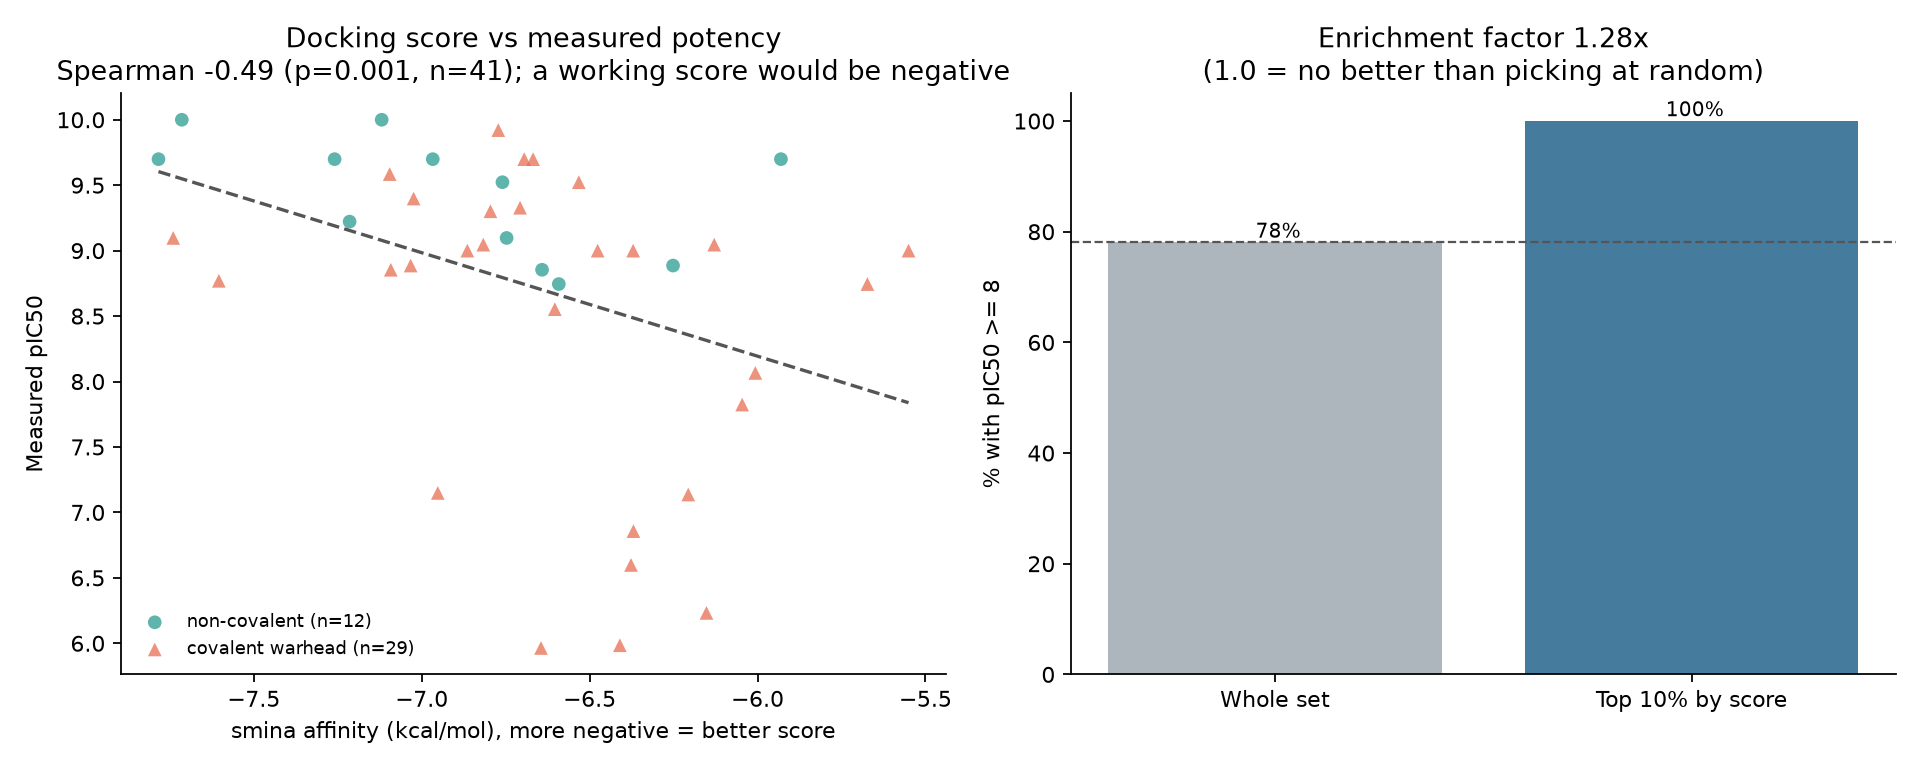
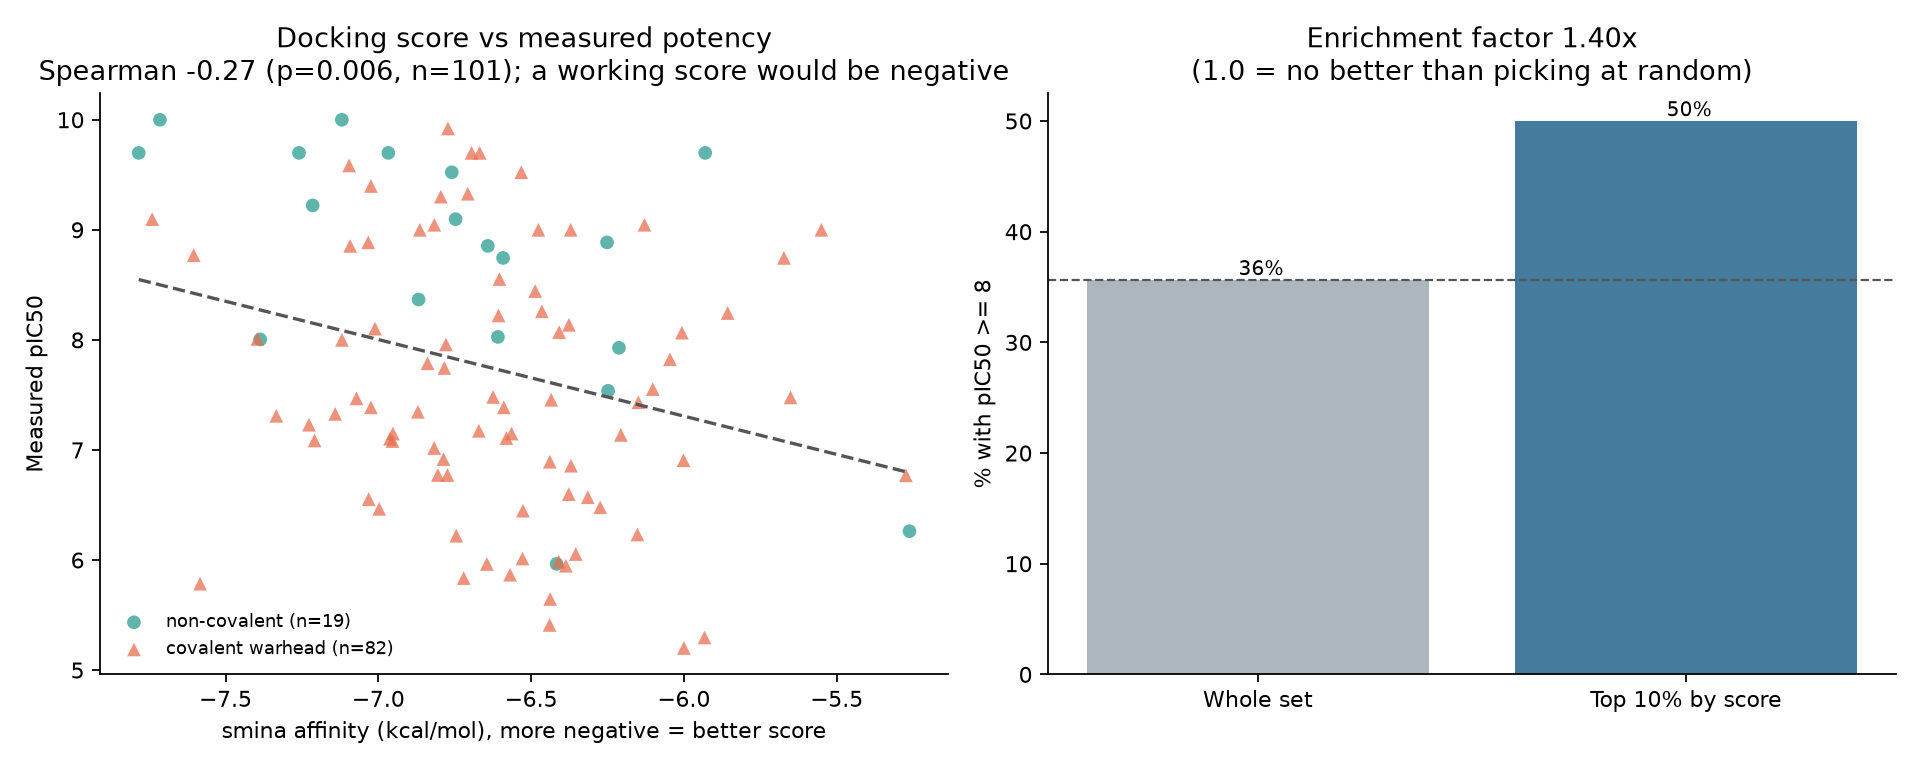
Control for ligand size within each mechanism, not across both
The representative sample reversed the earlier reading. At 41 compounds,
drawn only from the potent end, docking score correlated with potency at
Spearman -0.50 and survived a size control. At 101 compounds spanning the
full range it is -0.27, and the size control kills it: the apparent
relationship largely tracked molecular weight.

Splitting by mechanism explains why, and recovers a real finding. The whole
set averages two populations the scoring function treats differently, since
it has no term for covalent bond formation and 85% of these compounds inhibit
covalently. Controlling for size within each group:

  non-covalent  n=19  partial rho -0.610  p=0.006   survives
  covalent      n=82  partial rho -0.142  p=0.203   does not

Docking carries signal exactly where its physics applies and none where it
does not. The whole-set figure looks null only because the covalent majority
swamps a genuine relationship in the minority.

This matters for the project rather than only for method evaluation: every
shortlist compound that is both non-covalent and CNS-suitable sits in the
subset where the scores mean something, so docking can rank those candidates
against each other even though it cannot rank the dataset as a whole.

Numbers will move as the remaining 79 compounds finish; the document is
generated from the data and says it is partial.

diff --git a/src/report.py b/src/report.py
@@ -320,6 +320,58 @@ def docking_section() -> list[str]:
                     "",
                 ]
 
+        subsets = analysis.get("size_controlled_subsets") or {}
+        non_cov = subsets.get("non_covalent") or {}
+        cov = subsets.get("covalent") or {}
+        if non_cov and cov:
+            lines += [
+                "### Split by mechanism, the picture changes",
+                "",
+                "The whole-set number averages two populations with different "
+                "physics. A",
+                "scoring function has no term for covalent bond formation, so "
+                "for the 85% of",
+                "these compounds that inhibit covalently, potency is governed "
+                "by a reaction rate",
+                "the score cannot see. Controlling for ligand size within "
+                "each group:",
+                "",
+                "| Subset | n | Partial Spearman | p | Survives size control |",
+                "|---|---|---|---|---|",
+                f"| Non-covalent | {non_cov['n']} | "
+                f"{non_cov['partial_rho']:+.3f} | "
+                f"{non_cov['partial_p']:.3g} | "
+                f"{'yes' if non_cov['survives_size_control'] else 'no'} |",
+                f"| Covalent | {cov['n']} | {cov['partial_rho']:+.3f} | "
+                f"{cov['partial_p']:.3g} | "
+                f"{'yes' if cov['survives_size_control'] else 'no'} |",
+                "",
+            ]
+            if non_cov["survives_size_control"] and not cov[
+                "survives_size_control"
+            ]:
+                lines += [
+                    "That is the result worth taking from this screen, and it "
+                    "is more useful",
+                    "than the headline correlation. Docking carries real "
+                    "signal exactly where its",
+                    "physics applies -- non-covalent binding -- and none "
+                    "where it does not. The",
+                    "whole-set figure looks null only because the covalent "
+                    "majority swamps a real",
+                    "relationship in the minority.",
+                    "",
+                    "It also matters for this project specifically. Every "
+                    "compound on the",
+                    "shortlist that is both non-covalent and CNS-suitable "
+                    "falls in the subset where",
+                    "docking scores mean something, so the scores can be "
+                    "used to rank those",
+                    "candidates against each other -- which is not true of "
+                    "the dataset as a whole.",
+                    "",
+                ]
+
         enrich = analysis.get("enrichment") or {}
         if enrich.get("enrichment_factor") is not None:
             lines += [

diff --git a/src/docking/analyse_screen.py b/src/docking/analyse_screen.py
@@ -192,6 +192,30 @@ def analyse(scores: pd.DataFrame, dataset: pd.DataFrame) -> dict:
 
     active_threshold = float(dataset["pic50"].quantile(ACTIVE_QUANTILE))
 
+    def size_control(frame: pd.DataFrame) -> dict:
+        usable = frame[["affinity", "pic50", "heavy_atoms"]].dropna()
+        if len(usable) < MIN_FOR_STATS or usable["heavy_atoms"].nunique() <= 2:
+            return {}
+        rho, p = partial_spearman(
+            usable["affinity"], usable["pic50"], usable["heavy_atoms"]
+        )
+        return {
+            "n": len(usable),
+            "partial_rho": rho,
+            "partial_p": p,
+            "survives_size_control": bool(p < 0.05 and rho < 0),
+        }
+
+    # The whole-set control mixes two populations with different physics. A
+    # scoring function has no term for covalent bond formation, so for 85% of
+    # these compounds potency is governed by a reaction rate the score cannot
+    # see. The non-covalent subset is where docking is even expected to work,
+    # and it deserves its own control rather than being averaged away.
+    size_controlled_subsets = {
+        "non_covalent": size_control(non_covalent),
+        "covalent": size_control(covalent),
+    }
+
     size_controlled = {}
     usable = merged[["affinity", "pic50", "heavy_atoms"]].dropna()
     if len(usable) >= MIN_FOR_STATS and usable["heavy_atoms"].nunique() > 2:
@@ -220,6 +244,7 @@ def analyse(scores: pd.DataFrame, dataset: pd.DataFrame) -> dict:
         "active_threshold_pic50": active_threshold,
         "representativeness": representativeness(merged, dataset),
         "size_controlled": size_controlled,
+        "size_controlled_subsets": size_controlled_subsets,
         "n_in_active_site": len(in_site),
         "n_non_covalent": len(non_covalent),
         "affinity_min": float(merged["affinity"].min()),
@@ -379,6 +404,14 @@ def main() -> int:
                 else "relationship does NOT survive; it tracks size"
             )
         )
+
+    for label, entry in (summary.get("size_controlled_subsets") or {}).items():
+        if entry:
+            print(
+                f"    {label:14} n={entry['n']:3} partial rho "
+                f"{entry['partial_rho']:+.3f} (p={entry['partial_p']:.3g})"
+                + ("  survives" if entry["survives_size_control"] else "  does not survive")
+            )
 
     rep = summary.get("representativeness") or {}
     if rep and not rep.get("representative", True):

diff --git a/docs/DOCKING.md b/docs/DOCKING.md
@@ -78,38 +78,55 @@ here has a published pIC50, so the question can be measured instead of argued.
 > **This is a partial run.** The numbers below will move as the screen
 > finishes.
 
-> **The scored subset is not representative.** Its median pIC50 is 9.00 against 7.47 for the full dataset. A correlation
-> measured over a restricted potency range is not comparable to one over the
-> full range, so treat what follows as provisional.
-
-Scored compounds: **41**, affinity -7.78 to -5.55 kcal/mol.
+Scored compounds: **101**, affinity -7.78 to -5.26 kcal/mol.
 
 A working scoring function gives a **negative** correlation: a more negative
 affinity should mean a more potent compound.
 
 | Subset | n | Spearman | p | Direction |
 |---|---|---|---|---|
-| all scored compounds | 41 | -0.495 | 0.001 | correct |
-| pose contacts catalytic thiol | 40 | -0.478 | 0.0018 | correct |
-| non-covalent only | 12 | -0.603 | 0.0381 | correct |
-| covalent only | 29 | -0.402 | 0.0305 | correct |
+| all scored compounds | 101 | -0.272 | 0.00602 | correct |
+| pose contacts catalytic thiol | 98 | -0.237 | 0.0186 | correct |
+| non-covalent only | 19 | -0.592 | 0.00753 | correct |
+| covalent only | 82 | -0.179 | 0.107 | correct |
 
 ### Is it just molecular size?
 
 Vina-family scores grow more negative with ligand size, and in this dataset
-potency also rises with size (rho +0.40). A score that merely tracked size would
+potency also rises with size (rho +0.38). A score that merely tracked size would
 therefore produce a convincing correlation with potency while knowing nothing
 about binding.
 
-- affinity vs heavy atoms: **-0.31**
-- size vs potency: **+0.40**
-- affinity vs potency, controlling for size: **-0.426** (p=0.00554)
+- affinity vs heavy atoms: **-0.28**
+- size vs potency: **+0.38**
+- affinity vs potency, controlling for size: **-0.188** (p=0.0598)
 
-The relationship survives the control, so it is not simply a molecular
-weight effect. That is a more positive result than the redocking validation
-predicted, and worth stating plainly in both directions: the scoring
-function cannot place a ligand correctly in the pocket, yet retains some
-ability to tell potent compounds from weak ones across a series.
+The relationship does **not** survive the control. The apparent agreement
+between docking score and potency is an artefact of molecular size, and the
+scores carry no usable information about binding on this target.
+
+### Split by mechanism, the picture changes
+
+The whole-set number averages two populations with different physics. A
+scoring function has no term for covalent bond formation, so for the 85% of
+these compounds that inhibit covalently, potency is governed by a reaction rate
+the score cannot see. Controlling for ligand size within each group:
+
+| Subset | n | Partial Spearman | p | Survives size control |
+|---|---|---|---|---|
+| Non-covalent | 19 | -0.610 | 0.00555 | yes |
+| Covalent | 82 | -0.142 | 0.203 | no |
+
+That is the result worth taking from this screen, and it is more useful
+than the headline correlation. Docking carries real signal exactly where its
+physics applies -- non-covalent binding -- and none where it does not. The
+whole-set figure looks null only because the covalent majority swamps a real
+relationship in the minority.
+
+It also matters for this project specifically. Every compound on the
+shortlist that is both non-covalent and CNS-suitable falls in the subset where
+docking scores mean something, so the scores can be used to rank those
+candidates against each other -- which is not true of the dataset as a whole.
 
 ### What a top slice would actually give you
 
@@ -118,9 +135,9 @@ enrichment matters as much as correlation. 'Active' here means the top
 quartile of measured potency (pIC50 >= 8.23); a fixed 100 nM cut is
 meaningless on a set of published inhibitors where most compounds clear it.
 
-- Top 10% by docking score: **100%** are top-quartile potent
-- Whole set: **78%**
-- Enrichment factor: **1.28x** (1.0 would be no better than random)
+- Top 10% by docking score: **50%** are top-quartile potent
+- Whole set: **36%**
+- Enrichment factor: **1.40x** (1.0 would be no better than random)
 
 ## The deeper limitation
 
